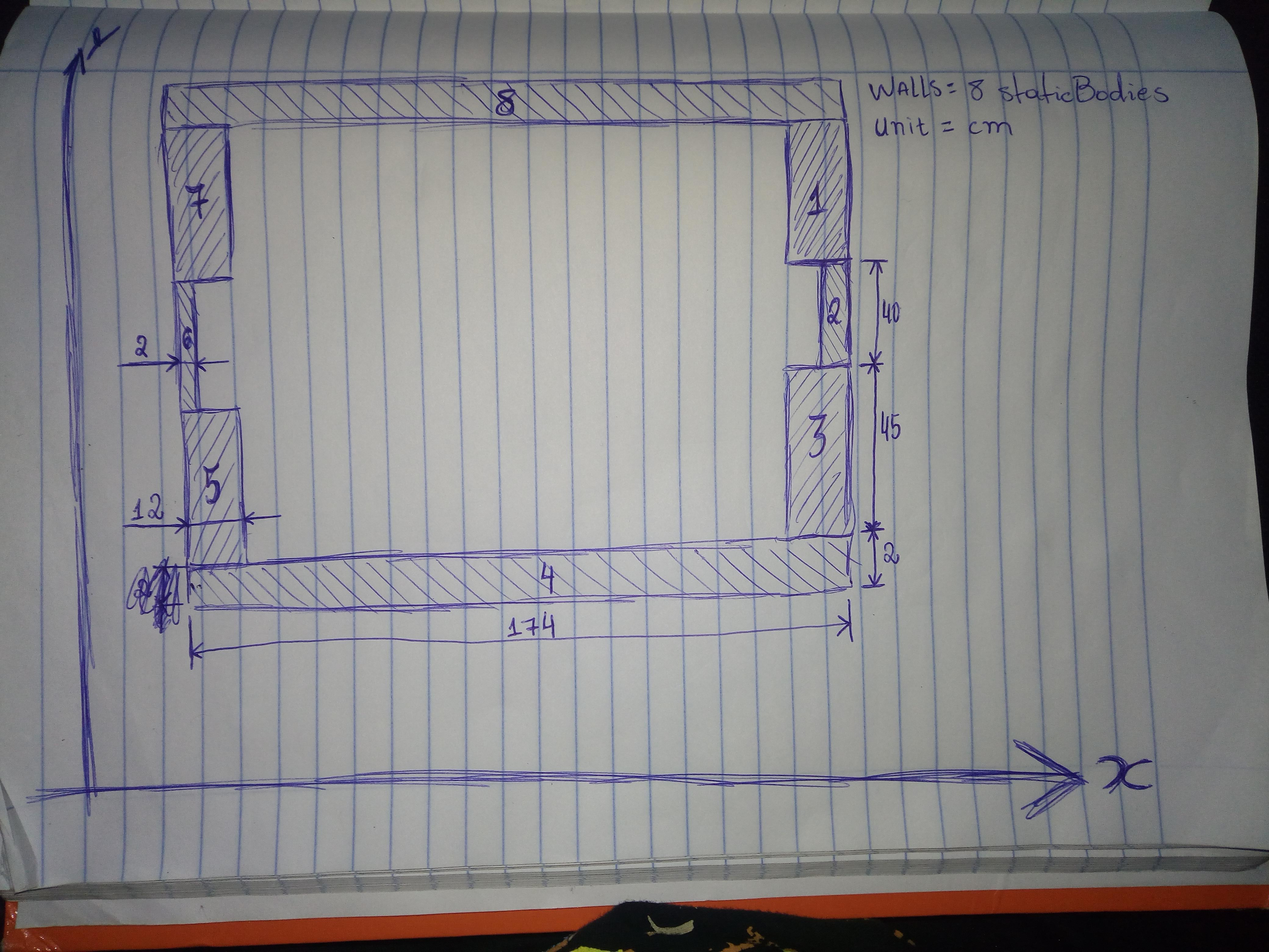
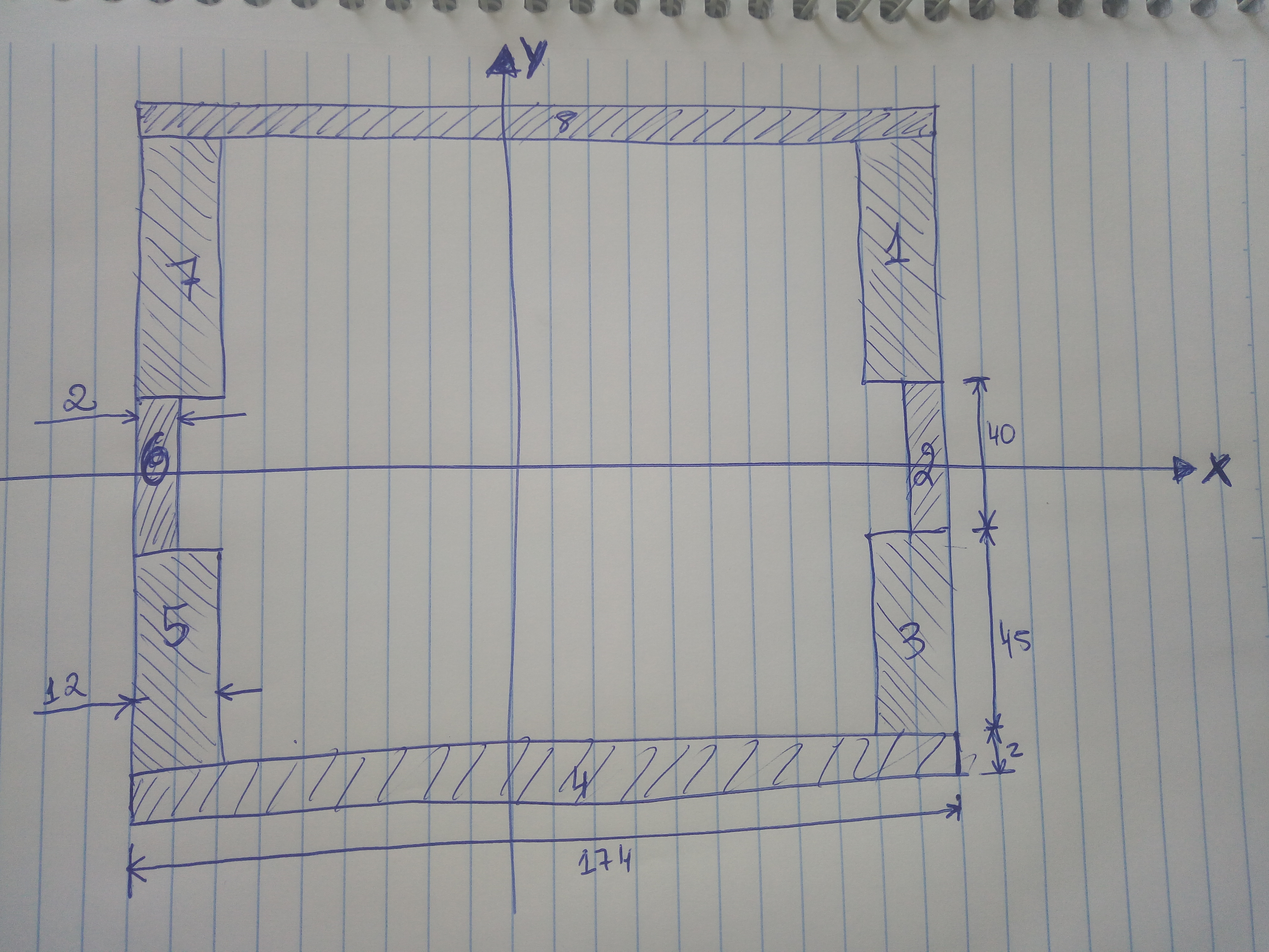
removed the module tkinter and used only module pygame

diff --git a/pygame_framework/backends/pygame_framework.py b/pygame_framework/backends/pygame_framework.py
@@ -52,8 +52,8 @@ import pygame
 from pygame.locals import (QUIT, KEYDOWN, KEYUP, MOUSEBUTTONDOWN,
                            MOUSEBUTTONUP, MOUSEMOTION, KMOD_LSHIFT)
 
-from ..framework import (FrameworkBase, Keys)
-from ..settings import fwSettings
+from pygame_framework.framework import (FrameworkBase, Keys)
+from pygame_framework.settings import fwSettings
 from Box2D import (b2DrawExtended, b2Vec2)
 
 class PygameDraw(b2DrawExtended):
@@ -87,7 +87,7 @@ class PygameDraw(b2DrawExtended):
         """
         Draw a single point at point p given a pixel size and color.
         """
-        self.DrawCircle(p, size / self.zoom, color, drawwidth=0)
+        self.DrawCircle(p, size, self.zoom, color, drawwidth=0)
 
     def DrawAABB(self, aabb, color):
         """
@@ -149,18 +149,18 @@ class PygameDraw(b2DrawExtended):
                            (center[0] - radius * axis[0],
                             center[1] + radius * axis[1]))
 
-    def DrawPolygon(self, vertices, color):
+    #def DrawPolygon(self, vertices, color):
         """
         Draw a wireframe polygon given the screen vertices with the specified color.
         """
-        if not vertices:
-            return
+    #    if not vertices:
+    #        return
 
-        if len(vertices) == 2:
-            pygame.draw.aaline(self.surface, color.bytes,
-                               vertices[0], vertices)
-        else:
-            pygame.draw.polygon(self.surface, color.bytes, vertices, 1)
+    #    if len(vertices) == 2:
+    #        pygame.draw.aaline(self.surface, color.bytes,
+    #                           vertices[0], vertices)
+    #    else:
+    #        pygame.draw.polygon(self.surface, color.bytes, vertices, 1)
 
     def DrawSolidPolygon(self, vertices, color):
         """
@@ -207,7 +207,7 @@ class PygameFramework(FrameworkBase):
 
     def __reset(self):
         # Screen/rendering-related
-        self._viewZoom = 10.0
+        self._viewZoom = 5.0
         self._viewCenter = None
         self._viewOffset = None
         self.screenSize = None
@@ -242,10 +242,8 @@ class PygameFramework(FrameworkBase):
         self.renderer = PygameDraw(surface=self.screen, test=self)
         self.world.renderer = self.renderer
 
-        self.viewCenter = (0, 20.0)
+        self.viewCenter = (0, 0)
         self.groundbody = self.world.CreateBody()
-
-        self.running = True
 
 
     def setCenter(self, value):
@@ -321,9 +319,10 @@ class PygameFramework(FrameworkBase):
         requested to quit.
         """
 
+        running = True
         clock = pygame.time.Clock()
-        if self.running:
-            self.running = self.checkEvents()
+        while running:
+            running = self.checkEvents()
             self.screen.fill((0, 0, 0))
 
             # Check keys that should be checked every loop (not only on initial
@@ -336,8 +335,6 @@ class PygameFramework(FrameworkBase):
             pygame.display.flip()
             clock.tick(self.settings.hz)
             self.fps = clock.get_fps()
-
-            self.frame.after(1, self.run)
             
     def destroy(self):
         pygame.quit()
@@ -345,6 +342,7 @@ class PygameFramework(FrameworkBase):
         self.world.contactListener = None
         self.world.destructionListener = None
         self.world.renderer = None
+
 
     def _Keyboard_Event(self, key, down=True):
         """

diff --git a/objects_on_field/objects.py b/objects_on_field/objects.py
@@ -5,12 +5,12 @@ Based on Chris Campbell's tutorial from iforce2d.net:
 http://www.iforce2d.net/b2dtut/top-down-car
 """
 
-from objects_on_field.framework import Framework
-from Box2D import (b2World, b2CircleShape, b2PolygonShape, b2FixtureDef)
+from pygame_framework.framework import *
+from pygame_framework.backends.pygame_framework import *
 from pygame_framework.physics_engine import TDTire
 import math
 
-class Ball(Framework):
+class Ball(FrameworkBase):
     def __init__(self, world, radi, color, density=1, position=(174/2, 134/2)):
         super(Ball, self).__init__()
 
@@ -20,15 +20,18 @@ class Ball(Framework):
                                   restitution=0.1),
             bullet=True,
             position=position)
-        self.body.userData = 'ball'
+        self.body.userData = {'obj': self}
         self.color = color
 
 
-class Walls(Framework):
-    pos_and_length = (((168, 109.5), (6,22.5)), ((173, 67), (1,20)),
-                            ((168, 24.5), (6,22.5)), ((87, 1), (87,1)), 
-                            ((6, 24.5), (6,22.5)), ((1, 67), (1,20)),
-                            ((6, 109.5), (6,22.5)), ((87, 133), (87,1)))
+class Walls(FrameworkBase):
+    """
+    See images/Field.jpeg for more details
+    """
+    pos_and_length = (((81, 42.5), (6,22.5)), ((86, 0), (1,20)),
+                        ((81, -42.5), (6,22.5)), ((0, -66), (87,1)), 
+                        ((-81, -42.5), (6,22.5)), ((-86, 0), (1,20)),
+                        ((-81, 42.5), (6,22.5)), ((0, 66), (87,1)))
     
     def __init__(self, world, color):
         super(Walls, self).__init__()
@@ -40,7 +43,7 @@ class Walls(Framework):
             fixtures=b2FixtureDef(friction=0.8,
                                   shape=b2PolygonShape(box=x[1]))
             )
-            wall.userData = 'wall'
+            wall.userData = {'obj': self}
         self.color = color
 
 
@@ -53,7 +56,7 @@ class Ground(object):
         self.friction_modifier = friction_modifier
 
 
-class Robot(Framework):
+class Robot(FrameworkBase):
     length_robot = 7.5 # cm
     pos_init = {
     'allie': [70, 47],
@@ -65,7 +68,7 @@ class Robot(Framework):
                                             angle=1.5)
         self.body.CreatePolygonFixture(box=(__class__.length_robot/2,__class__.length_robot/2), 
                                   density=1, friction=0.3, restitution=0.2)
-        self.body.userData = team
+        self.body.userData = {'obj': self}
         self.color = color
         
         self.update_pos_init(team)

diff --git a/field.py b/field.py
@@ -8,23 +8,14 @@
     'http://www.iforce2d.net/b2dtut/top-down-car'
 """
 
-import math 
 from constants import *
 import sys
 from communication_ros import *
 from objects_on_field.objects import (Ball, Walls, Robot, Ground, TDCar)
 from pygame_framework.physics_engine import TDTire
-from pygame_framework.framework import (Framework, Keys)
+from pygame_framework.framework import FrameworkBase as Framework
+from pygame_framework.framework import *
 import math
-
-try:
-    import pygame # Turn possible the relationship between tkinter and Box2D
-    import Box2D  # The main library
-    # Box2D.b2 maps Box2D.b2Vec2 to vec2 (and so on)
-    from Box2D.b2 import (world, polygonShape, circleShape, staticBody, dynamicBody)
-except ImportError as excessao:
-    print(excessao)
-    sys.exit()
 
 
 class Null(object):
@@ -57,7 +48,7 @@ class Field(Framework):
     #description = "If there is only one robot. Keys: accel = w, reverse = s, left = a, right = d"
 
     def __init__(self, *args, **kargs):
-        super(Field, self).__init__(frame=kargs.pop('frame'))
+        super(Field, self).__init__()
         # Top-down -- no gravity in the screen plane
         self.world.gravity = (0, 0)
 
@@ -71,13 +62,14 @@ class Field(Framework):
         self.pressed_keys = set()
 
         # The walls
-        boundary = self.world.CreateStaticBody(position=(0, 20))
-        boundary.CreateEdgeChain([(-30, -30),
-                                  (-30, 30),
-                                  (30, 30),
-                                  (30, -30),
-                                  (-30, -30)]
-                                 )
+        walls = Walls(self.world, BLUE)
+        #boundary = self.world.CreateStaticBody(position=(0, 20))
+        #boundary.CreateEdgeChain([(-30, -30),
+        #                          (-30, 30),
+        #                          (30, 30),
+        #                          (30, -30),
+        #                          (-30, -30)]
+        #                         )
 
         # A couple regions of differing traction
         self.car = TDCar(self.world)
@@ -146,6 +138,7 @@ class Field(Framework):
         super(Field, self).Step(settings)
 
         tractions = [tire.current_traction for tire in self.car.tires]
+        print(self.car.body.position)
         #self.Print('Current tractions: %s' % tractions)
 
 """

diff --git a/manage_widgets.py b/manage_widgets.py
@@ -161,6 +161,7 @@ class Simulator(object):
         ### Field inserted in center - Pygame ###
         # Tell pygame's SDL window which window ID to use
         os.environ['SDL_WINDOWID'] = str(self.frame2.winfo_id())
+        os.environ["SDL_VIDEODRIVER"] = "dummy"
         self.field_simul = Field(frame=self.frame2, color_team=self.color_team.get(), 
                              n_allies=self.n_allies.get(), 
                              n_opponents=self.n_opponents.get())

diff --git a/pygame_framework/framework.py b/pygame_framework/framework.py
@@ -23,7 +23,7 @@ The framework's base is FrameworkBase. See its help for more information.
 """
 from time import time
 
-from Box2D import (b2World, b2AABB, b2CircleShape, b2Color, b2Vec2)
+from Box2D import (b2World, b2AABB, b2CircleShape, b2PolygonShape, b2Color, b2Vec2)
 from Box2D import (b2ContactListener, b2DestructionListener, b2DrawExtended)
 from Box2D import (b2Fixture, b2FixtureDef, b2Joint)
 from Box2D import (b2GetPointStates, b2QueryCallback, b2Random)

diff --git a/main.py b/main.py
@@ -10,9 +10,10 @@
 from manage_widgets import *
 
 def main():
-    instance = Tk()
-    Simulator(instance)
-    instance.mainloop()       
+    #instance = Tk()
+    #Simulator(instance)
+    #instance.mainloop()       
+    Field((0,0,255), 3, 3)
     
 if __name__ == '__main__':
     main()
